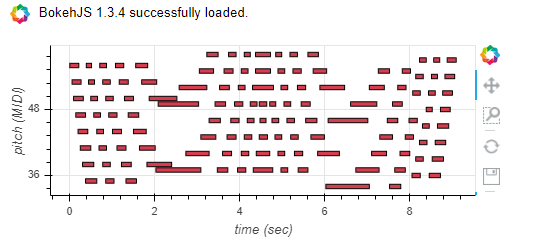
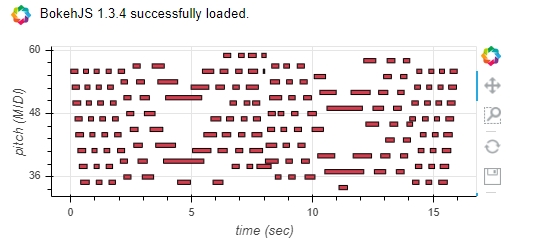
- Correct order of functions. Better use case

Changed region(s): [[0.0, 0.17, 0.957, 0.8785], [0.0, 0.0, 0.4785, 0.1134], [0.4187, 0.9069, 0.5682, 0.9636]]

diff --git a/README.md b/README.md
@@ -76,10 +76,12 @@ So we can try and add some of that also.
 First we will need to quantize the midi notes using the `stretch()` function. The we can use the `midi_modifier()` function to add fluctuation and the amount we want to shift notes up or down.
 We can also set every step we want the midi shift to apply. The amount of shift per step is selected at random.
 	
-	# Stretch or quantize midi. Default value is 16
+	# Usually we should shif all the notes until the first note starts at zero.
+	i2m.midi_modifier(start_zero=True)
+	# Stretch or quantize midi. Default value is 16.
 	i2m.stretch() # If you want to change the value the bars argument is used. ex bars=8
-	i2m.midi_modifier(s_stretch=[-2,2], # Add the shift range in the s_stretch argument. 
-	                  start_zero=True,  # Shift all notes until first note starts at zero.
+	# Apply shifting of notes and the amount of times.
+	i2m.midi_modifier(s_stretch=[-2,2], # Add the shift range in the s_stretch argument.
 					  scale_change=8)   # Apply shift changes 8 times. For 16 it will shift every 2 bars. 16/8
 	i2m.plot()
 	
